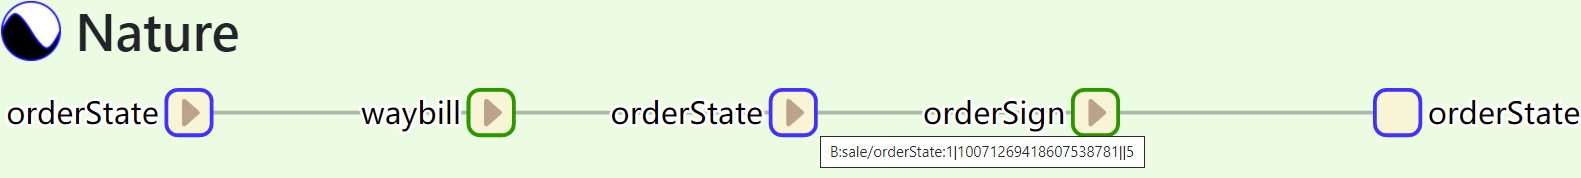
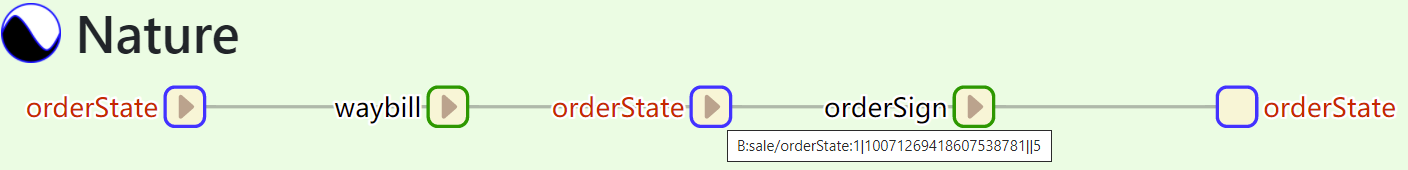
state text shown in red

Changed region(s): [[0.0, 0.4706, 1.0, 0.9706], [0.0, 0.0, 0.1875, 0.3824]]

diff --git a/src/domain/node.ts b/src/domain/node.ts
@@ -12,11 +12,12 @@ export class NatureData {
 export class D3Node {
     id = 0;
     name: string = "";
+    // tooltip
     title = "";
     isFake = false;
     private children?: D3Node[];
     private _children?: D3Node[];
-    textColor = "";
+    private textColor = "";
     nodeType = "";
     private classForSame = "";
     linkData = "";
@@ -26,6 +27,13 @@ export class D3Node {
     parent: D3Node = undefined as any as D3Node;
     private childSet: Set<Number> = new Set;
 
+    setState(state: boolean) {
+        if (state) this.textColor = "#d02b06";
+        else this.textColor = "black";
+    }
+    getTextColor() {
+        return this.textColor
+    }
     setClassForSame(id: string) {
         this.classForSame = id.replace(/\//g, '-');
     }

diff --git a/src/service/d3tree.ts b/src/service/d3tree.ts
@@ -280,7 +280,7 @@ function appendText<T extends BaseType>(selected: d3.Selection<T, d3.HierarchyPo
         // used to select all text beside node
         .attr("class", "side")
         // set status meta
-        .attr("fill", d => (d.data as any as D3Node).textColor)
+        .attr("fill", d => (d.data as any as D3Node).getTextColor())
         .attr("opacity", (d) => ((d.data as any as D3Node).isFake ? 0.4 : 1))
         .text(d => (d.data as D3Node).name)
         .clone(true)

diff --git a/src/domain/meta.ts b/src/domain/meta.ts
@@ -25,11 +25,9 @@ export class Meta {
 
     initD3Node() {
         if (this.d3node) return;
-        let color = "black"
-        if (this.isState()) color = "#d02b06"
         const node = new D3Node;
         node.id = this.id;
-        node.textColor = color;
+        node.setState(this.isState());
         // the css class does not exists, just to identify the same
         node.setClassForSame("id" + this.id);
         node.name = this.levels[this.levels.length - 1];

diff --git a/src/domain/instance.ts b/src/domain/instance.ts
@@ -38,6 +38,7 @@ export class Instance {
         nd.dataType = DataType.INSTANCE;
         nd.data = cIns;
         let node = new D3Node;
+        node.setState(meta.isState())
         node.name = meta.levels[meta.levels.length - 1];
         node.setClassForSame(cIns.id == "0" ? "id" + cIns.data.para : "id" + cIns.id);
         node.title = cIns.getKey();
